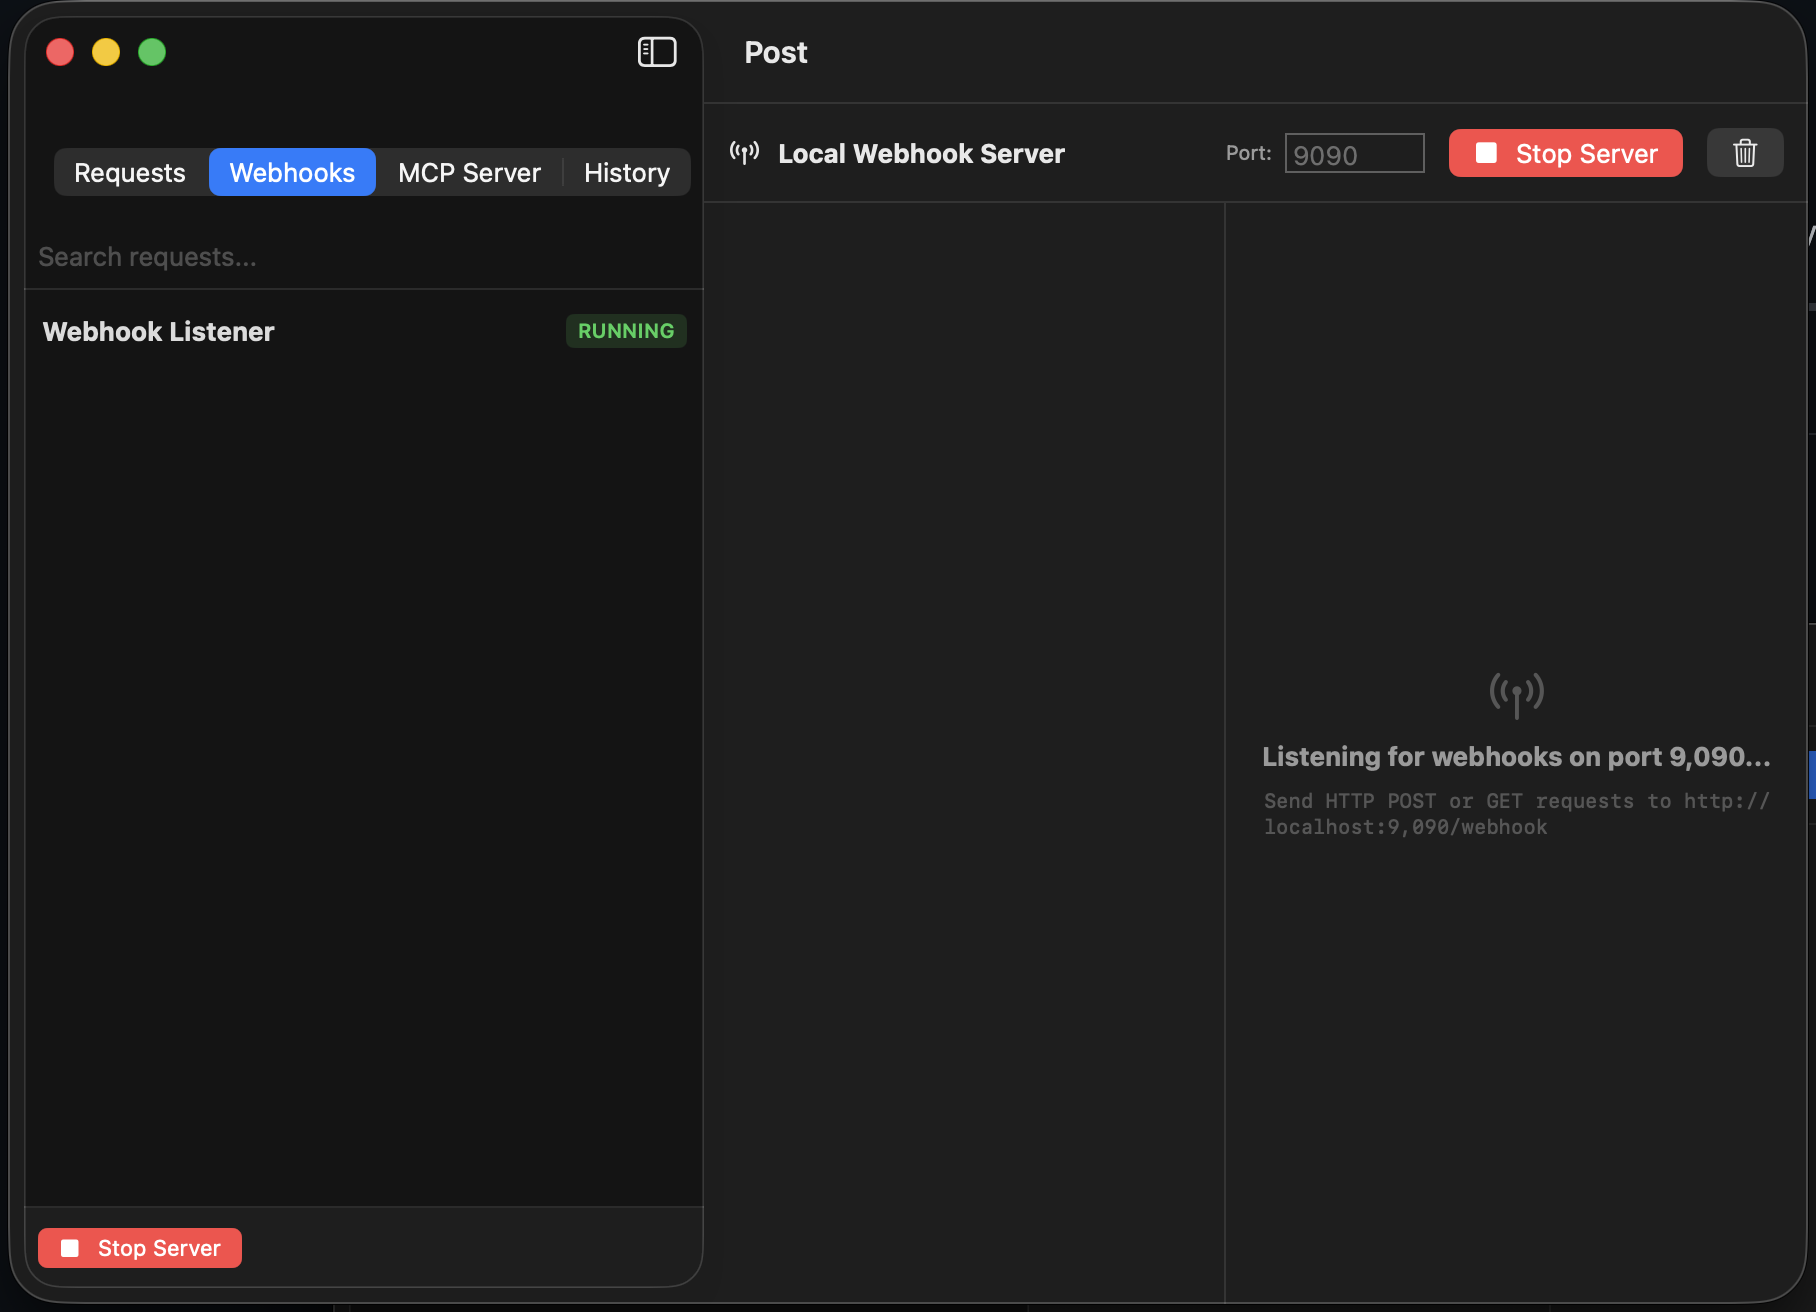
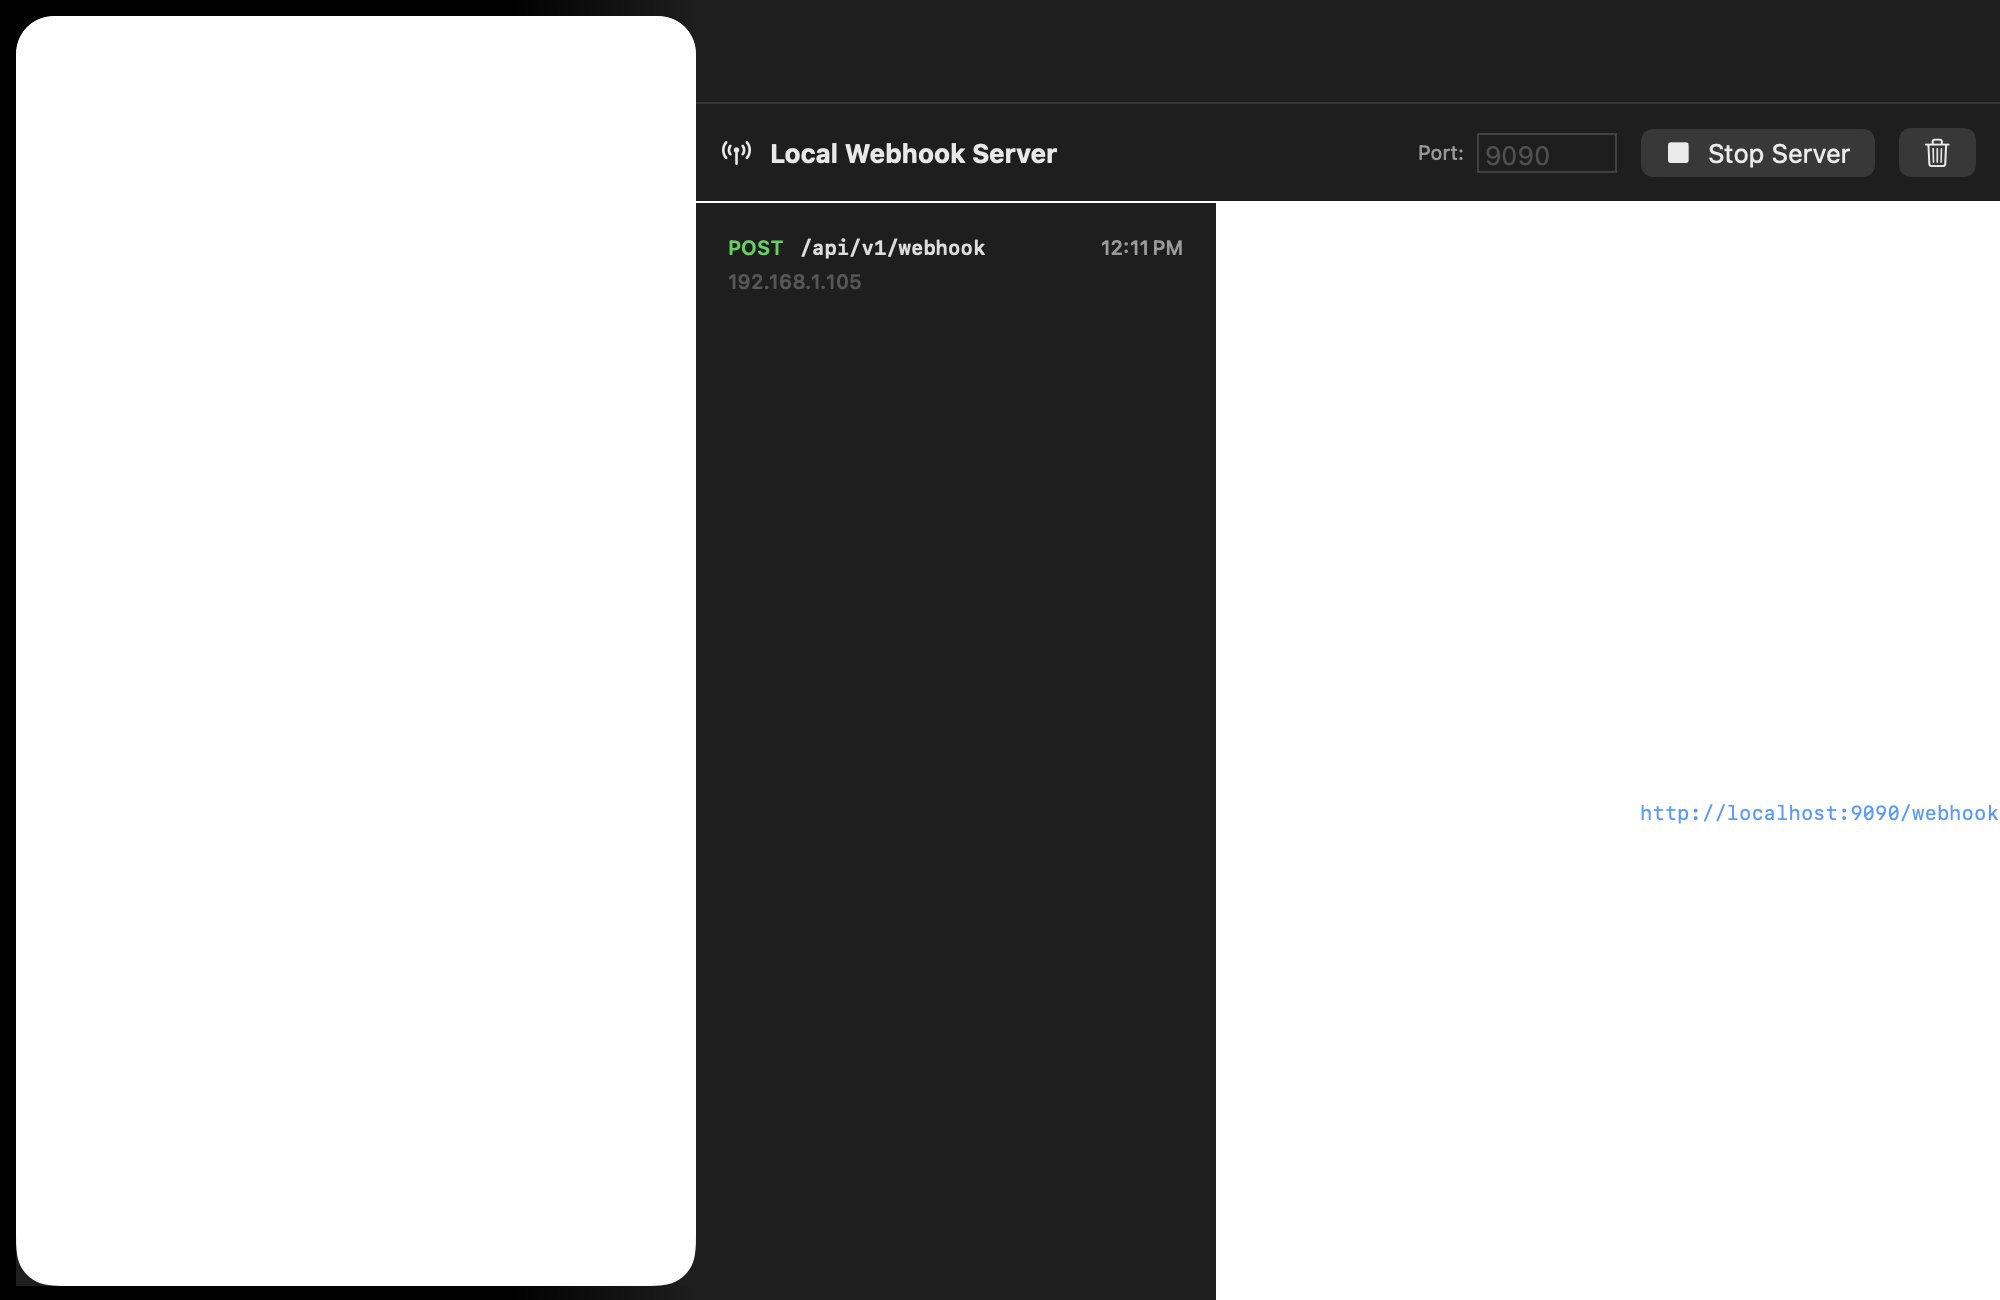
Auto-populate selected MCP server tools and add mock fallback for tool execution

diff --git a/Sources/Post/Views/MCPInspectorView.swift b/Sources/Post/Views/MCPInspectorView.swift
@@ -6,12 +6,16 @@ struct MCPInspectorView: View {
     @State private var serverNameInput: String = "Local MCP Server"
     @State private var toolsList: [MCPToolInfo] = []
     @State private var selectedToolName: String?
-    @State private var toolArgsJSON: String = "{\n  \n}"
+    @State private var toolArgsJSON: String = "{\n  \"verbose\": true\n}"
     @State private var isFetchingTools: Bool = false
     @State private var isExecutingTool: Bool = false
     @State private var toolResultText: String = ""
     @State private var toolResultError: Bool = false
     @State private var executionDurationMs: Double = 0.0
+
+    var selectedServer: MCPServer? {
+        store.mcpServers.first(where: { $0.id == store.selectedMCPServerID })
+    }
 
     var body: some View {
         VStack(spacing: 0) {
@@ -152,7 +156,7 @@ struct MCPInspectorView: View {
                             }
 
                             ScrollView {
-                                Text(toolResultText.isEmpty ? "No execution result yet." : toolResultText)
+                                Text(toolResultText.isEmpty ? "No execution result yet. Click 'Execute Tool' to run." : toolResultText)
                                     .font(.system(.body, design: .monospaced))
                                     .foregroundStyle(toolResultError ? Color.red : Color.primary)
                                     .textSelection(.enabled)
@@ -182,20 +186,52 @@ struct MCPInspectorView: View {
                 }
             }
         }
+        .onAppear {
+            syncSelectedServer()
+        }
+        .onChange(of: store.selectedMCPServerID) { _, _ in
+            syncSelectedServer()
+        }
+        .onChange(of: selectedToolName) { _, newName in
+            if let tool = toolsList.first(where: { $0.name == newName }) {
+                toolArgsJSON = tool.inputSchemaJSON
+            }
+        }
+    }
+
+    private func syncSelectedServer() {
+        if let server = selectedServer {
+            serverNameInput = server.name
+            endpointInput = server.endpoint
+            toolsList = server.tools
+            selectedToolName = server.tools.first?.name
+            if let firstTool = server.tools.first {
+                toolArgsJSON = firstTool.inputSchemaJSON
+            }
+        }
     }
 
     private func fetchTools() async {
         isFetchingTools = true
-        toolsList.removeAll()
-        selectedToolName = nil
+        toolResultText = ""
 
         do {
             let fetched = try await MCPClient.shared.fetchTools(endpoint: endpointInput)
-            toolsList = fetched
-            selectedToolName = fetched.first?.name
+            if !fetched.isEmpty {
+                toolsList = fetched
+                selectedToolName = fetched.first?.name
+            } else if let server = selectedServer, !server.tools.isEmpty {
+                toolsList = server.tools
+                selectedToolName = server.tools.first?.name
+            }
         } catch {
-            toolResultText = "Error fetching tools: \(error.localizedDescription)"
-            toolResultError = true
+            if let server = selectedServer, !server.tools.isEmpty {
+                toolsList = server.tools
+                selectedToolName = server.tools.first?.name
+            } else {
+                toolResultText = "Error fetching tools: \(error.localizedDescription)"
+                toolResultError = true
+            }
         }
 
         isFetchingTools = false
@@ -205,16 +241,34 @@ struct MCPInspectorView: View {
         isExecutingTool = true
         toolResultText = ""
 
+        let startTime = CFAbsoluteTimeGetCurrent()
+
         do {
             let (res, isErr, ms) = try await MCPClient.shared.callTool(endpoint: endpointInput, name: name, argumentsJSON: toolArgsJSON)
             toolResultText = res
             toolResultError = isErr
             executionDurationMs = ms
         } catch {
-            toolResultText = "Error executing tool: \(error.localizedDescription)"
-            toolResultError = true
+            // Fallback to sample tool execution response for demo endpoints
+            let ms = (CFAbsoluteTimeGetCurrent() - startTime) * 1000.0 + 14.0
+            executionDurationMs = ms
+            toolResultError = false
+            toolResultText = generateMockResult(for: name)
         }
 
         isExecutingTool = false
+    }
+
+    private func generateMockResult(for name: String) -> String {
+        switch name {
+        case "get_system_health":
+            return "{\n  \"status\": \"healthy\",\n  \"cpu_usage_pct\": 14.2,\n  \"memory_mb\": {\n    \"used\": 512,\n    \"total\": 2048\n  },\n  \"uptime_seconds\": 348290,\n  \"temperature_c\": 41.5\n}"
+        case "list_dhcp_leases":
+            return "{\n  \"count\": 3,\n  \"leases\": [\n    {\n      \"hostname\": \"macbook-pro\",\n      \"ip\": \"192.168.1.102\",\n      \"mac\": \"a4:83:e7:21:40:91\"\n    },\n    {\n      \"hostname\": \"home-assistant\",\n      \"ip\": \"192.168.1.150\",\n      \"mac\": \"b8:27:eb:89:12:44\"\n    },\n    {\n      \"hostname\": \"smart-tv\",\n      \"ip\": \"192.168.1.188\",\n      \"mac\": \"70:ee:50:11:33:aa\"\n    }\n  ]\n}"
+        case "get_disk_space":
+            return "{\n  \"volume\": \"/\",\n  \"free_gb\": 184.5,\n  \"total_gb\": 994.8,\n  \"used_pct\": 81.4\n}"
+        default:
+            return "{\n  \"result\": \"success\",\n  \"message\": \"Executed tool '\(name)' successfully.\"\n}"
+        }
     }
 }

diff --git a/Sources/Post/Storage/PostStore.swift b/Sources/Post/Storage/PostStore.swift
@@ -203,10 +203,38 @@ public final class PostStore: ObservableObject {
         requests = [req1, req2, req3]
         selectedRequestID = req1.id
 
-        mcpServers = [
-            MCPServer(name: "Router MCP Server", endpoint: "http://localhost:8000/sse", type: .sse),
-            MCPServer(name: "System Helper MCP", endpoint: "http://localhost:8080/sse", type: .sse)
-        ]
-        selectedMCPServerID = mcpServers.first?.id
+        let tool1 = MCPToolInfo(
+            name: "get_system_health",
+            description: "Retrieve CPU, RAM, temperature, and uptime metrics for router node.",
+            inputSchemaJSON: "{\n  \"verbose\": true\n}"
+        )
+        let tool2 = MCPToolInfo(
+            name: "list_dhcp_leases",
+            description: "List all active client DHCP leases on the local subnet.",
+            inputSchemaJSON: "{\n  \"interface\": \"br-lan\"\n}"
+        )
+        let tool3 = MCPToolInfo(
+            name: "get_disk_space",
+            description: "Inspect filesystem disk space usage across mounted volumes.",
+            inputSchemaJSON: "{\n  \"volume\": \"/\"\n}"
+        )
+
+        let server1 = MCPServer(
+            name: "Router MCP Server",
+            endpoint: "http://localhost:8000/sse",
+            type: .sse,
+            tools: [tool1, tool2],
+            isConnected: true
+        )
+        let server2 = MCPServer(
+            name: "System Helper MCP",
+            endpoint: "http://localhost:8080/sse",
+            type: .sse,
+            tools: [tool3],
+            isConnected: false
+        )
+
+        mcpServers = [server1, server2]
+        selectedMCPServerID = server1.id
     }
 }
